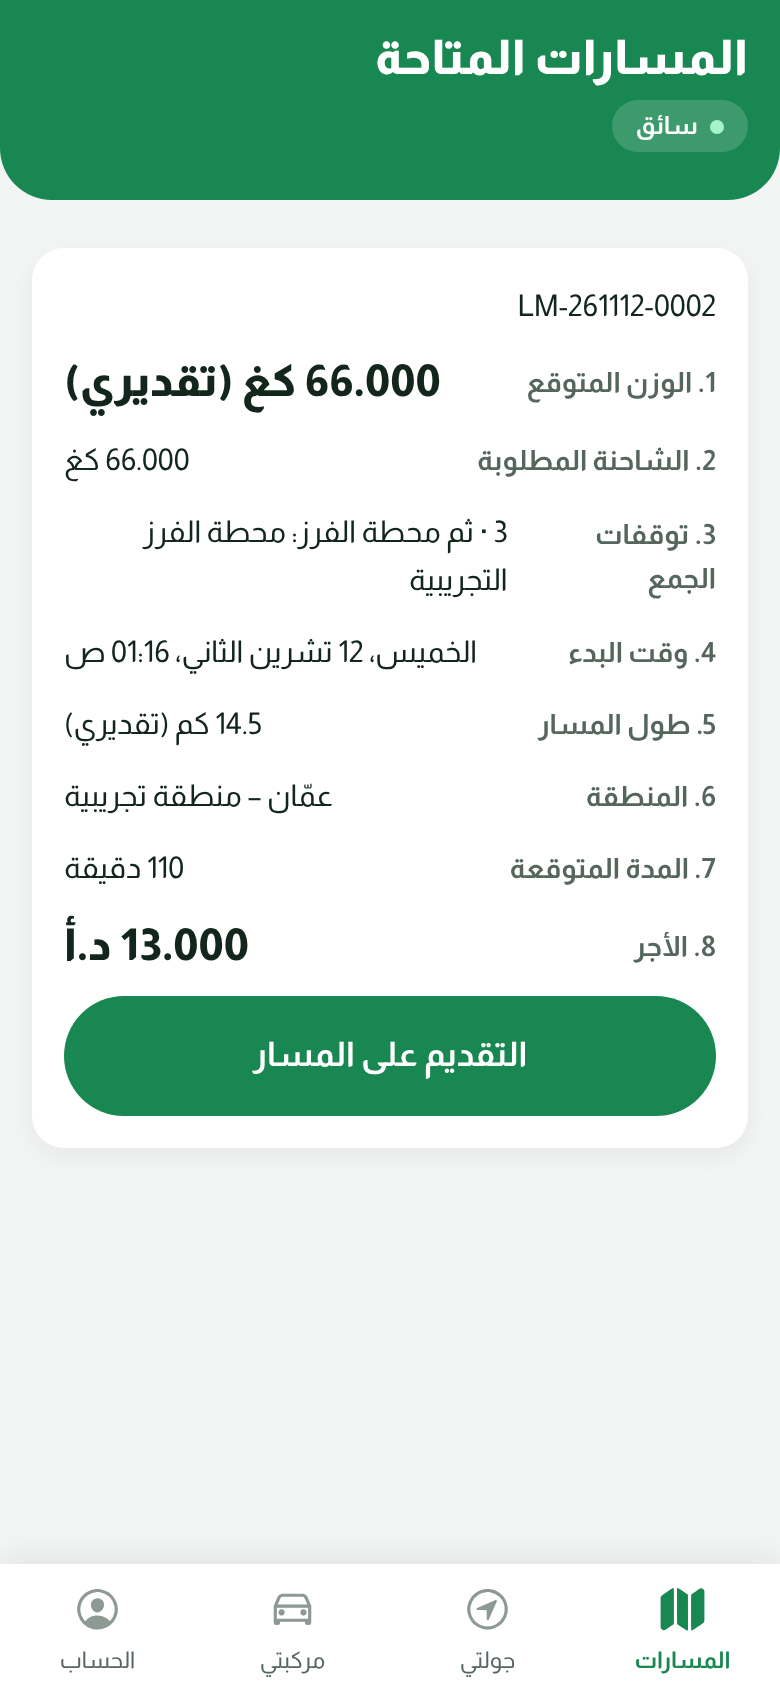
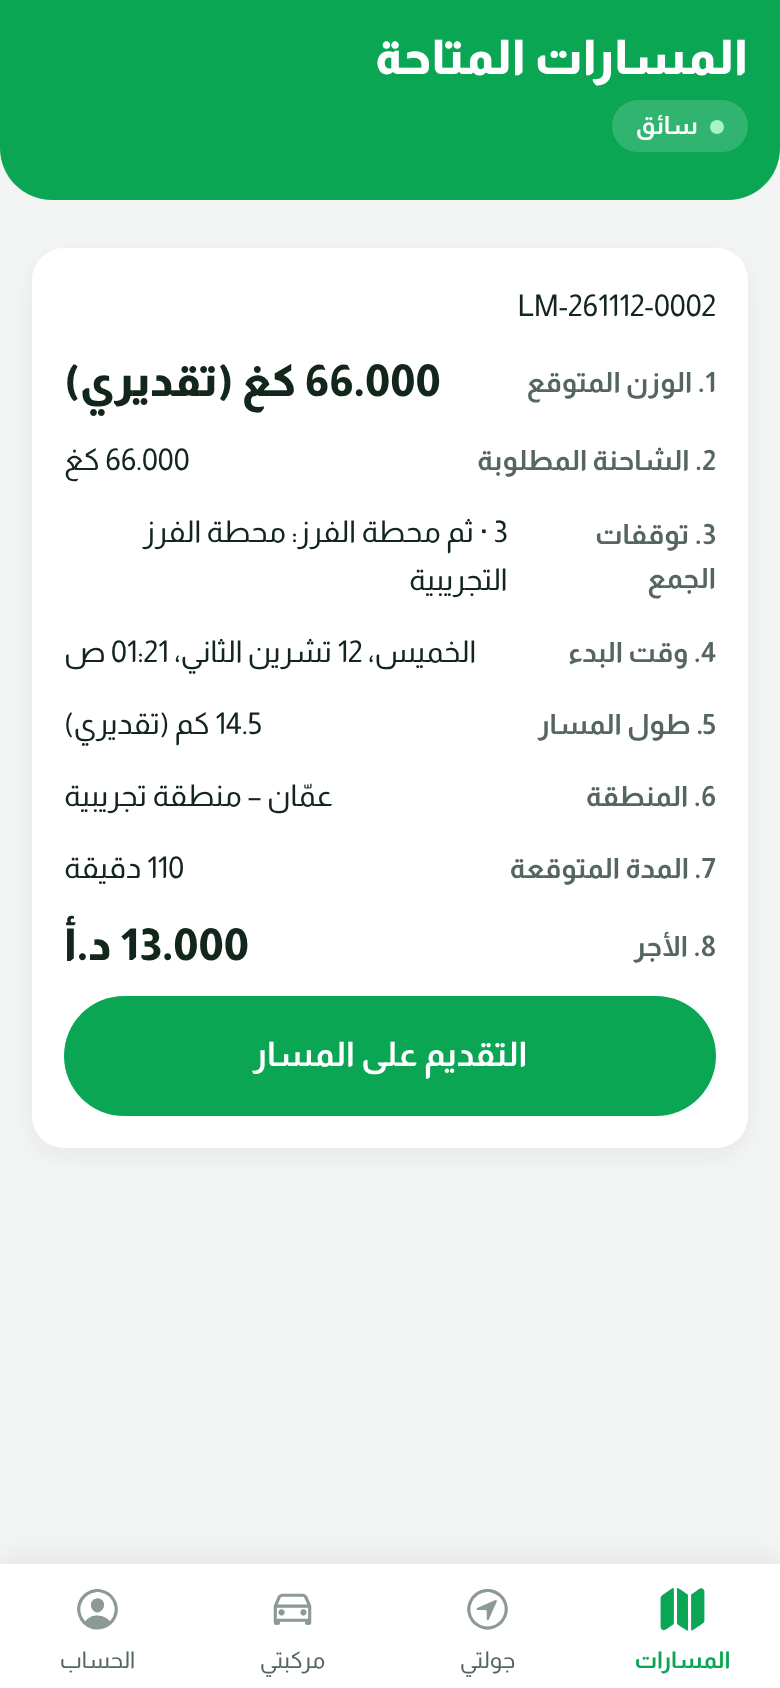
Brighter green
Claude-Session: https://claude.ai/code/session_01Mda9e8qEFB9GuCHtUbiCSC

diff --git a/apps/mobile/src/theme.ts b/apps/mobile/src/theme.ts
@@ -5,8 +5,8 @@
 const palettes = {
   // A — Canva board: fresh green on white with mint surfaces and an amber accent
   fresh: {
-    bg: '#F3F5F4', surface: '#FFFFFF', surfaceAlt: '#E8F6EF', border: '#E7ECEA',
-    primary: '#198751', primaryDark: '#116B3F', primaryBright: '#2DB36E', primarySoft: '#E8F6EF', onPrimary: '#FFFFFF',
+    bg: '#F3F5F4', surface: '#FFFFFF', surfaceAlt: '#E3F8EC', border: '#E7ECEA',
+    primary: '#0AA654', primaryDark: '#078A45', primaryBright: '#2FD27C', primarySoft: '#E3F8EC', onPrimary: '#FFFFFF',
     accent: '#F2A225', accentSoft: '#FEF3DC',
     text: '#12261C', textMuted: '#55665D', textFaint: '#8C9A93',
   },
@@ -31,7 +31,7 @@ export const themeName: ThemeName = chosen in palettes ? chosen : 'fresh';
 
 export const color = {
   ...palettes[themeName],
-  success: '#198751', successSoft: '#E1F4EA', warning: '#9A5B00', warningSoft: '#FEF3DC',
+  success: '#0A8F49', successSoft: '#E1F4EA', warning: '#9A5B00', warningSoft: '#FEF3DC',
   danger: '#C0362C', dangerSoft: '#FBE4E1', info: '#1F5F99', infoSoft: '#E2EEF9',
 } as const;
 export const space = { xs: 4, sm: 8, md: 12, lg: 16, xl: 24, xxl: 32 } as const;
